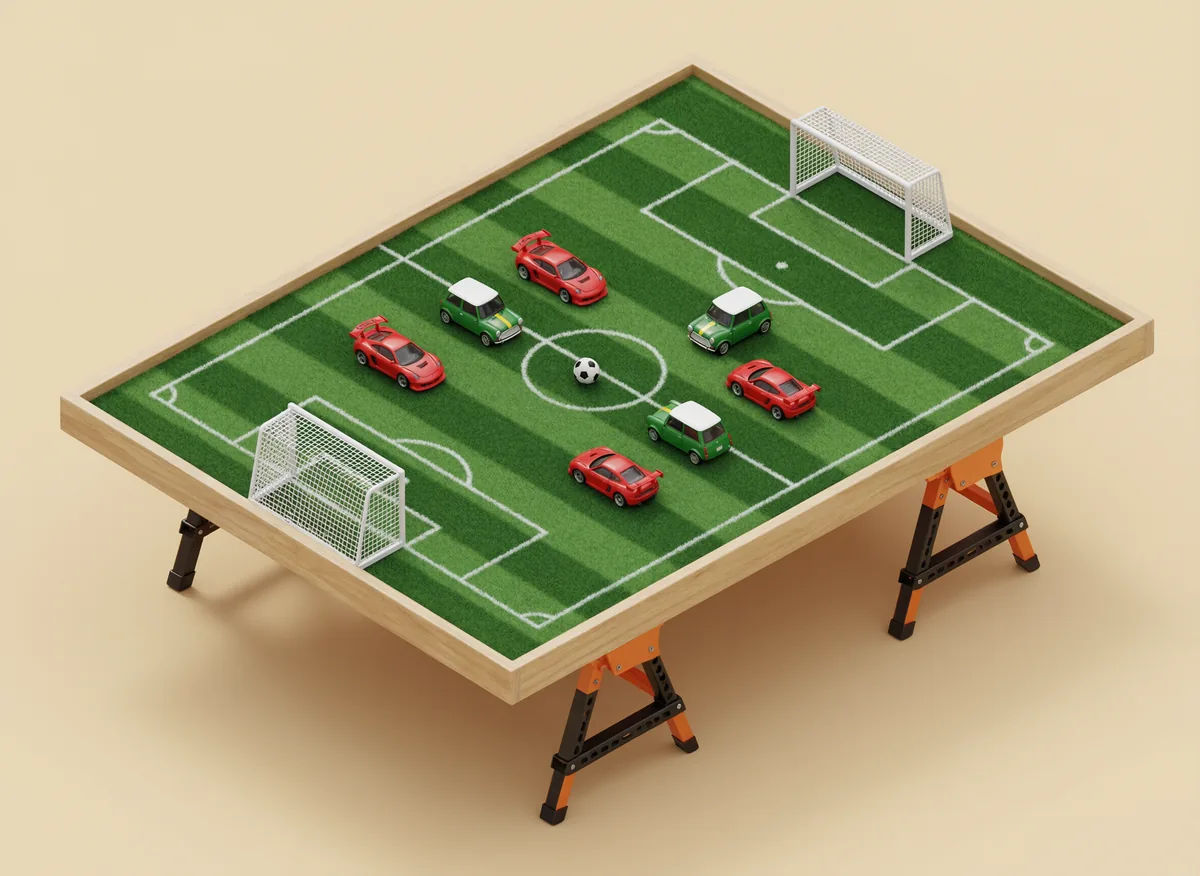
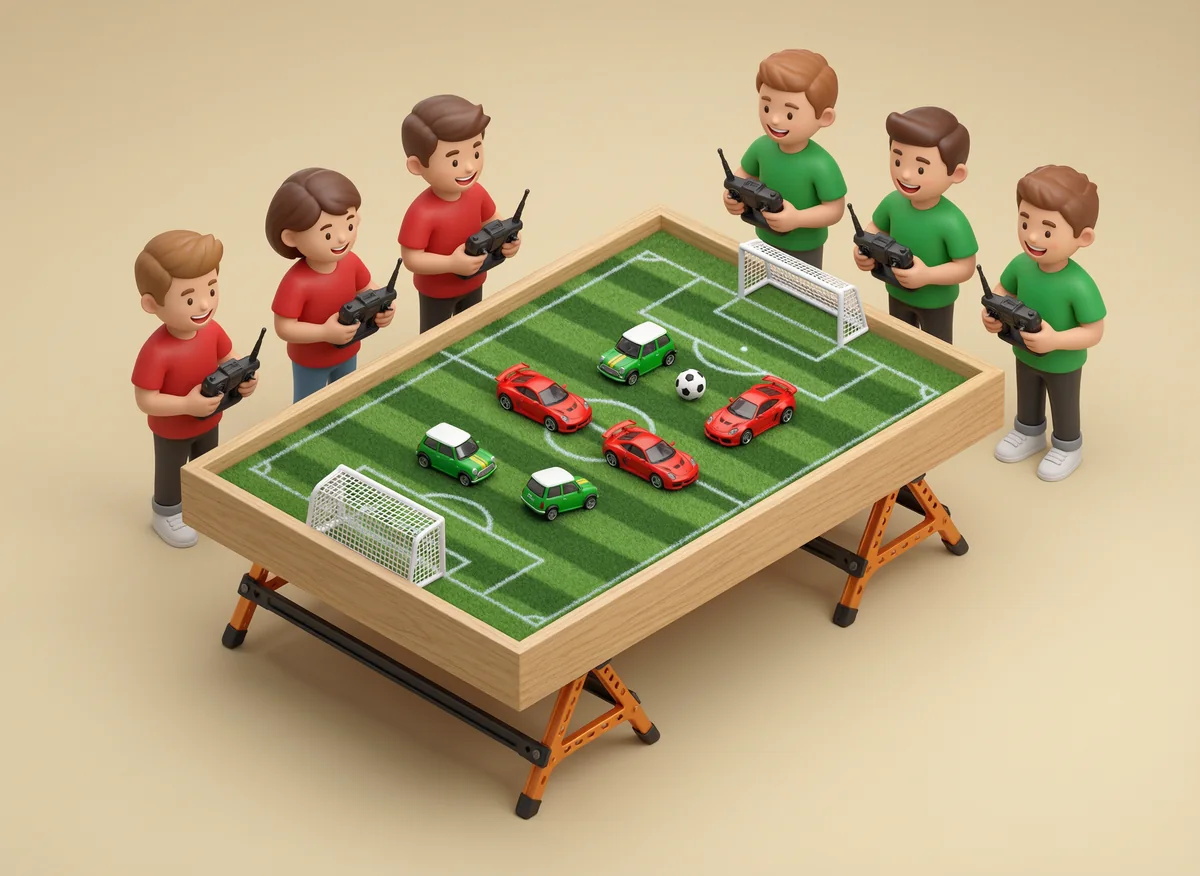
Fútbol RC: ilustración con tres jugadores por lado, cada uno con su control
Seis personajes de caricatura (tres con camiseta roja y tres con verde)
con control remoto, jugando 3 contra 3 con autos 1:64 sobre la mesa con
borde de madera y dos arcos. El texto de la tarjeta indica 3 contra 3.

diff --git a/frontend/src/pages/Home.jsx b/frontend/src/pages/Home.jsx
@@ -72,13 +72,13 @@ const ACTIVITIES = [
     title: 'Fútbol con autos 1:64',
     status: 'soon',
     space: '0,8 × 1,2 m',
-    text: 'Partidos de fútbol jugados con autos RC a escala 1:64.',
+    text: 'Partidos de fútbol de 3 contra 3, jugados con autos RC a escala 1:64.',
     image: {
       src: '/fotos/futbol-rc.webp',
       width: 1200,
       height: 876,
       illustration: true,
-      alt: 'Ilustración de una mesa de fútbol con autos RC pequeños rojos y verdes, dos arcos y una pelota, sobre caballetes plegables',
+      alt: 'Ilustración de seis personajes de caricatura, tres con camiseta roja y tres con camiseta verde, cada uno con su control remoto, jugando fútbol con autos RC sobre una mesa con borde de madera y dos arcos',
     },
   },
   {
